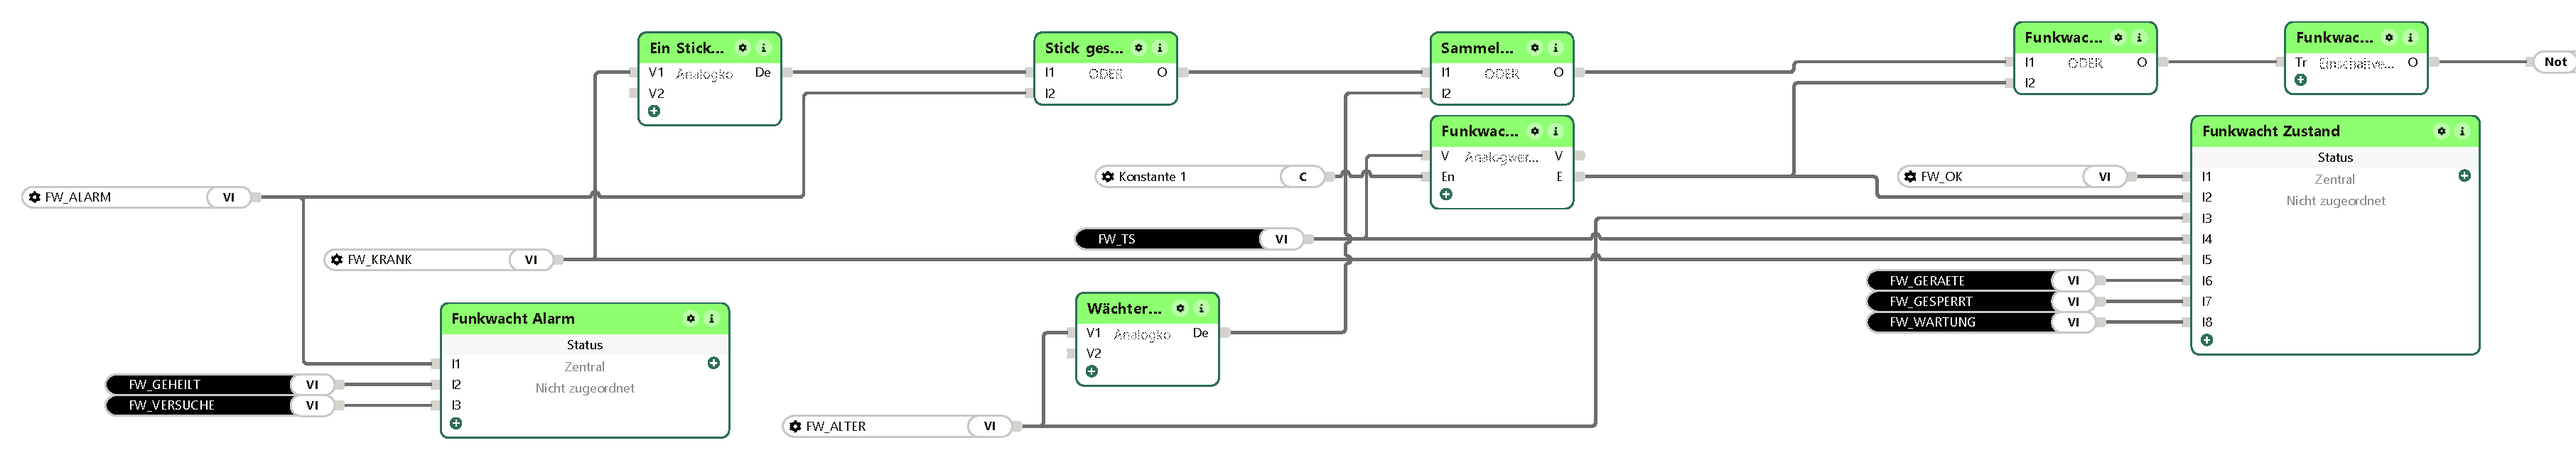
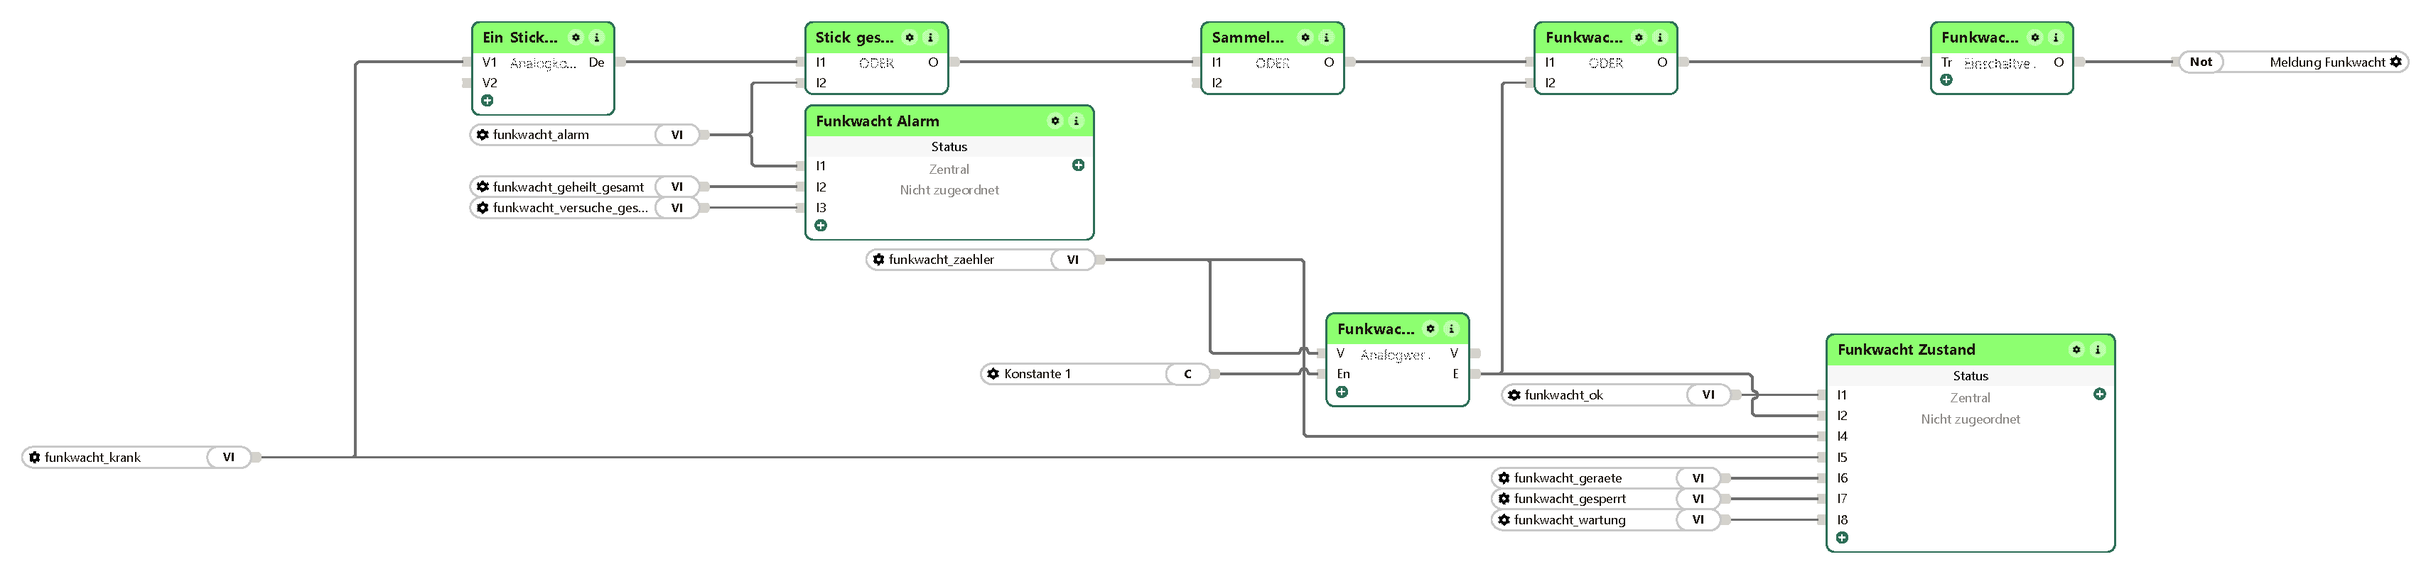
Funkwacht 1.0.18: Bilder der Einbindung erneuert (Musterprojekt 614cd0f)
Bilder der Einbindung erneuert: Die Seitenbilder zeigen jetzt die Musterprojekt-Seiten in der Hausform (MQTT-Gateway V2 und Befehlsbrücke statt der früheren HTTP-Vorlagen). Sonst keine Änderung gegen 1.0.17.

diff --git a/README.md b/README.md
@@ -4,10 +4,14 @@
 Merkt, wenn ein Stick verstummt, weckt ihn in Stufen wieder auf — und misst
 nach, ob es geholfen hat.
 
-Version 1.0.17 · LoxBerry ab 3.0 · PHP 7.4 und 8.x · Python 3 mit paho-mqtt
+Version 1.0.18 · LoxBerry ab 3.0 · PHP 7.4 und 8.x · Python 3 mit paho-mqtt
 (Debian-Paket, über `dpkg/apt`)
 
 ---
+
+## Neu in 1.0.18
+
+Bilder der Einbindung erneuert: Die Seitenbilder zeigen jetzt die Musterprojekt-Seiten in der Hausform (MQTT-Gateway V2 und Befehlsbrücke statt der früheren HTTP-Vorlagen). Sonst keine Änderung gegen 1.0.17.
 
 ## Neu in 1.0.17
 
